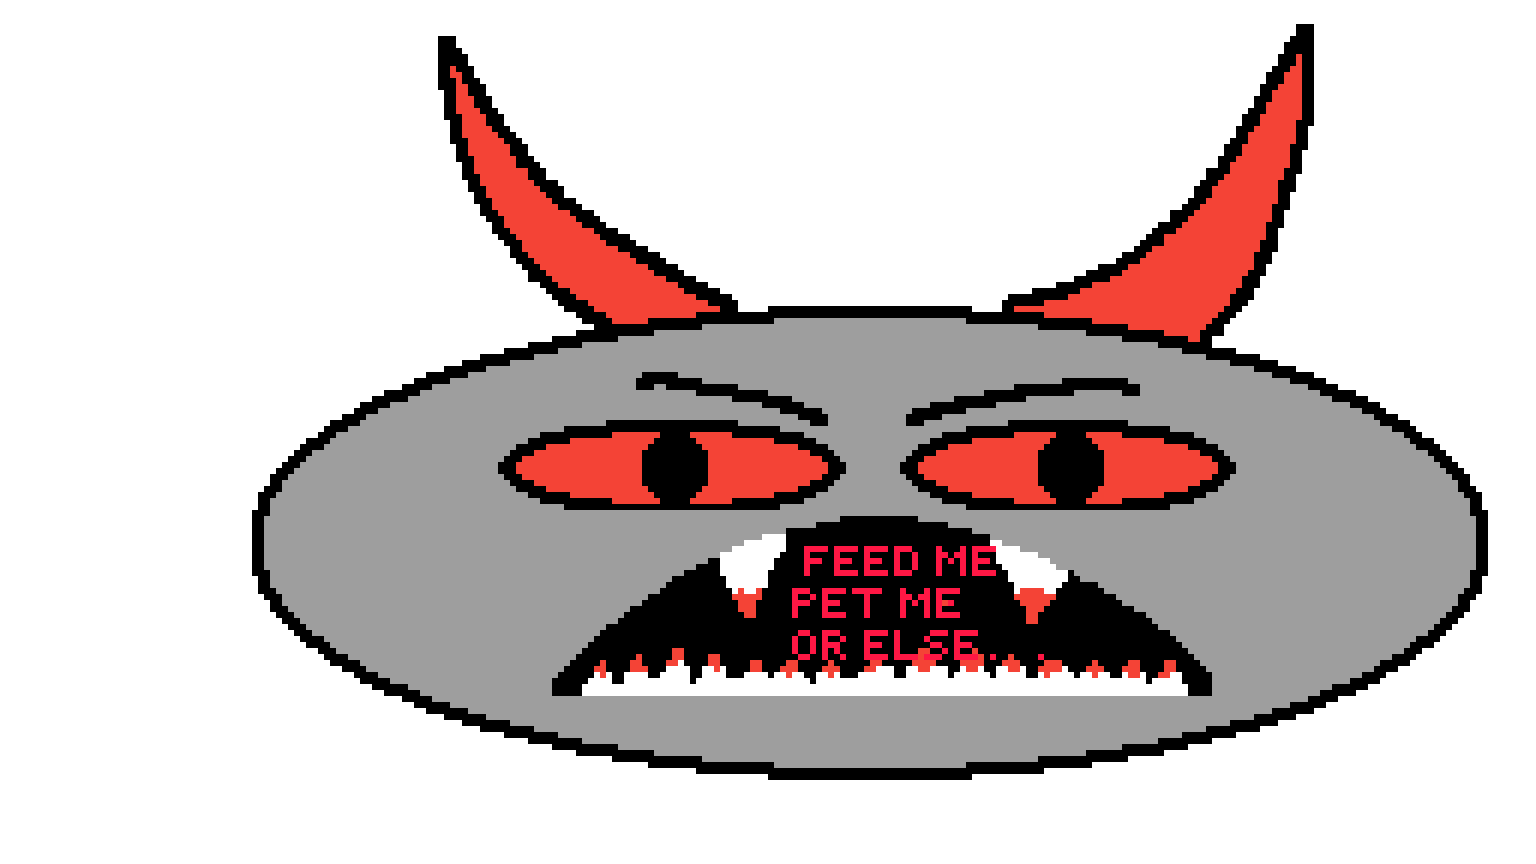
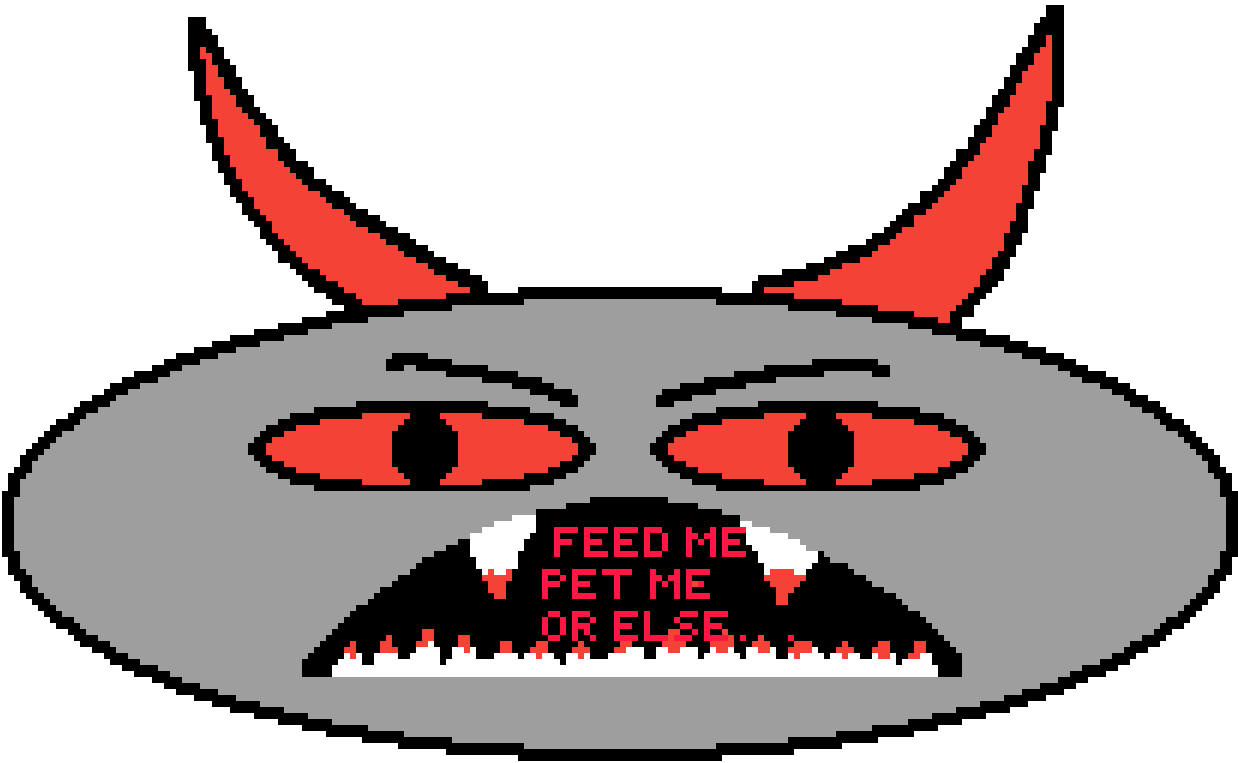
Cosmetics don't show if your rock is angry

diff --git a/src/routes/home/+page.svelte b/src/routes/home/+page.svelte
@@ -163,11 +163,13 @@
 		}}
 		aria-label="Rocco"
 	>
-		{#each items.equipped_items as item}
-			{#if item.slot === Slot.Head}
-				<enhanced:img src={itemImages.get(item.id)!} alt={item.name} class="mx-auto w-[30vw]" />
-			{/if}
-		{/each}
+		{#if rock.happiness.total > 0}
+			{#each items.equipped_items as item}
+				{#if item.slot === Slot.Head}
+					<enhanced:img src={itemImages.get(item.id)!} alt={item.name} class="mx-auto w-[30vw]" />
+				{/if}
+			{/each}
+		{/if}
 		<enhanced:img alt="Rocco!" src={rocco_state} sizes="min(1536px, 100vw)" />
 	</button>
 </main>
